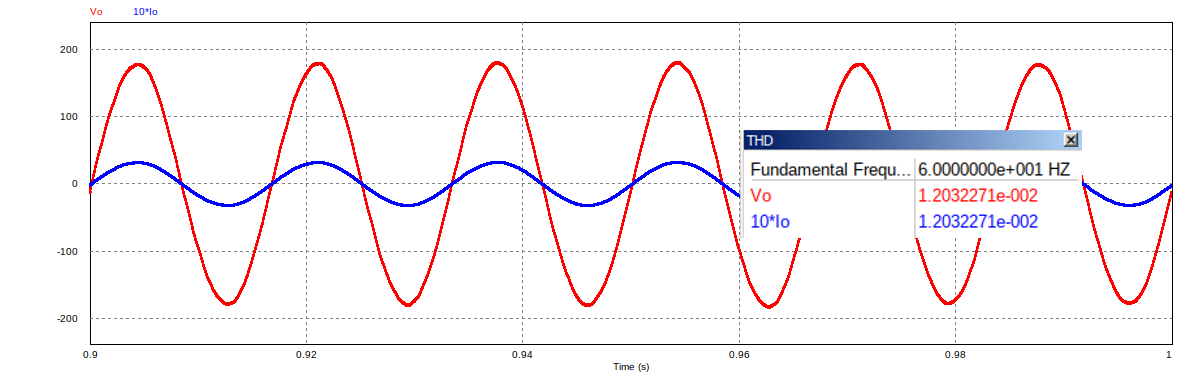
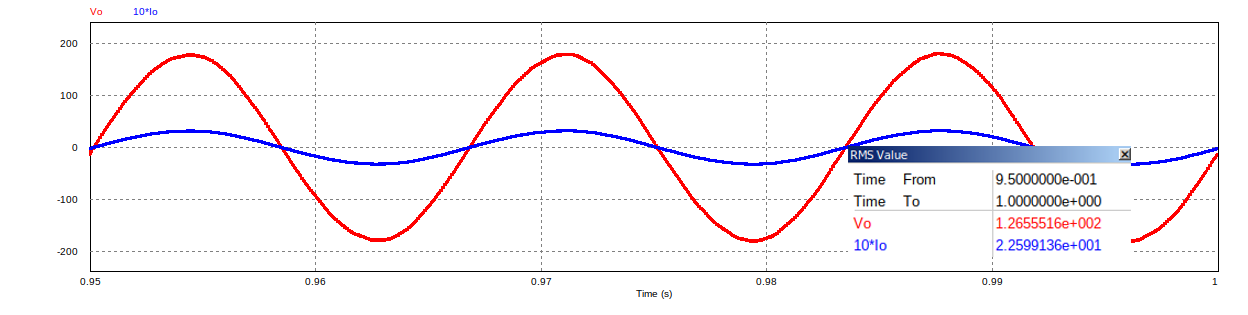
fix conventional bip

diff --git a/abntex2-modelo-trabalho-academico-TCC-EngaEletrica.tex b/abntex2-modelo-trabalho-academico-TCC-EngaEletrica.tex
@@ -1522,9 +1522,9 @@ O filtro resultante pode ser visto na figura~\ref{fig:lcl_filter_impl}, com o ca
 	\end{center}
 \end{figure}
 
-\chapter{Conjuntos Finais}
+\chapter{Implementação dos conversores finais}
 
-Neste capítulo são apresentados os conjuntos formados a partir da conexão dos circuitos dimensionados no capítulo~\ref{cap:project} e os resultados das simulações executadas com os mesmos.
+Neste capítulo são apresentados os conversores formados a partir da conexão dos circuitos dimensionados no capítulo~\ref{cap:project} e os resultados das simulações executadas com os mesmos.
 
 São, ao todo, seis conjuntos distintos uma vez que cada implementação proposta é conectada a um inversor bipolar e a um inversor unipolar, a fim de avaliar a influência desse estágio. Todos as combinações apresentam, entretanto, o painel fotovoltaico, o rastreador de ponto máximo de potência e o filtro LCL em comum.
 
@@ -1536,7 +1536,7 @@ Todas as figuras de circuitos desse capítulo são apresentadas também no anexo
 
 O circuito implementado no PSIM para o conjunto que utiliza o conversor cuk convencional conectado ao inversor bipolar, com rastreamento de ponto máximo de potência é apresentado na figura~\ref{fig:comp_conv_circ_clean}. Além disso, a tabela~\ref{tab:conv_bip_res} apresenta os principais resultados encontrados através da simulação deste circuito.
 
-Na figura~\ref{fig:out_conv_bip} são apresentados tensão e corrente de saída, ampliada em dez vezes, com informação da distorção harmônica total desses sinais, considerando frequência base de 60Hz. O espectro de frequências da tensão de saída obtida pode ser analisada na figura~\ref{fig:fft_conv_bip}.
+Na figura~\ref{fig:out_conv_bip} são apresentados tensão e corrente de saída, ampliada em dez vezes, com informação da distorção harmônica total desses sinais, considerando frequência base de 60Hz. O espectro de frequências da tensão de saída obtida pode ser analisada na figura~\ref{fig:fft_conv_bip} e ajuda a compreender a THD apresentada na figura~\ref{fig:out_conv_bip}.
 
 Já a figura~\ref{fig:comp_conv_var_s_bip} mostra os sinais de entrada e saída do conjunto para alterações na irradiância que alimenta o painel fotovoltaico.
 
@@ -1556,7 +1556,7 @@ Já a figura~\ref{fig:comp_conv_var_s_bip} mostra os sinais de entrada e saída 
 		\hline
 		\rowcolor[HTML]{C0C0C0} 
 		\textbf{Corrente de saída eficaz} & \textbf{Corrente de ripple}   & \textbf{Tensão de saída eficaz} & \textbf{Tensão de Ripple}   & \textbf{Potência de saída}    & \textbf{Rendimento}   & \textbf{THD}                \\ \hline
-		\multicolumn{1}{|c|}{$2,26 A$}      & \multicolumn{1}{c|}{20,21 mA} & \multicolumn{1}{c|}{$126,62 V$}   & \multicolumn{1}{c|}{$1,13 V$} & \multicolumn{1}{c|}{$286,31 W$} & \multicolumn{1}{c|}{$95,44\%$} & \multicolumn{1}{c|}{$1,20\%$} \\ \hline
+		\multicolumn{1}{|c|}{$2,26 A$}      & \multicolumn{1}{c|}{$20,21 mA$} & \multicolumn{1}{c|}{$126,55 V$}   & \multicolumn{1}{c|}{$1,26 V$} & \multicolumn{1}{c|}{$286,00 W$} & \multicolumn{1}{c|}{$95,33\%$} & \multicolumn{1}{c|}{$0,81\%$} \\ \hline
 		\end{tabular}%
 	}
 	\caption{Valores obtidos para o inversor cuk convencional bipolar}
@@ -1574,7 +1574,7 @@ Já a figura~\ref{fig:comp_conv_var_s_bip} mostra os sinais de entrada e saída 
 \begin{figure}[H]%
 	\captionsetup{justification=centering}
 	\centering
-		\includegraphics[width= \linewidth]{fft_conv_bip}
+		\includegraphics[width= \linewidth]{fft_conv_bip_2}
 		\caption{Espectro de frequências da tensão de saída do inversor cuk convencional bipolar}
 		\label{fig:fft_conv_bip}
 \end{figure}
